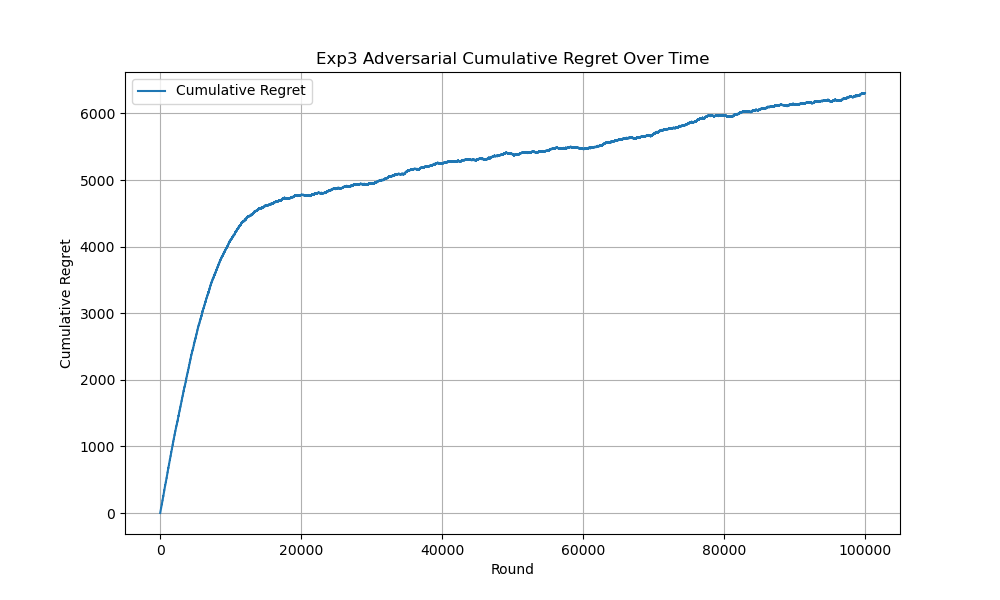
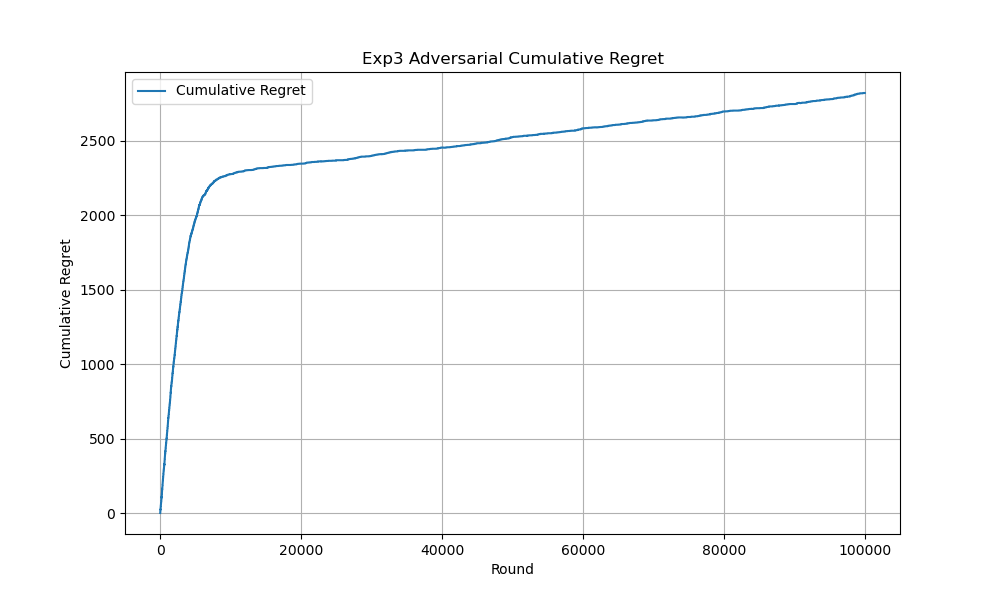
updated figures

diff --git a/exp3/exp3adversarial.py b/exp3/exp3adversarial.py
@@ -271,8 +271,8 @@ return regrets
 """
 
 n_arms = 10
-time_horizon = 20000
-learning_rate = 0.02
+time_horizon = 100000
+learning_rate = 0.01
 
 adversarialExp3Environment = Adversarial_Exp3(learning_rate, n_arms)
 
